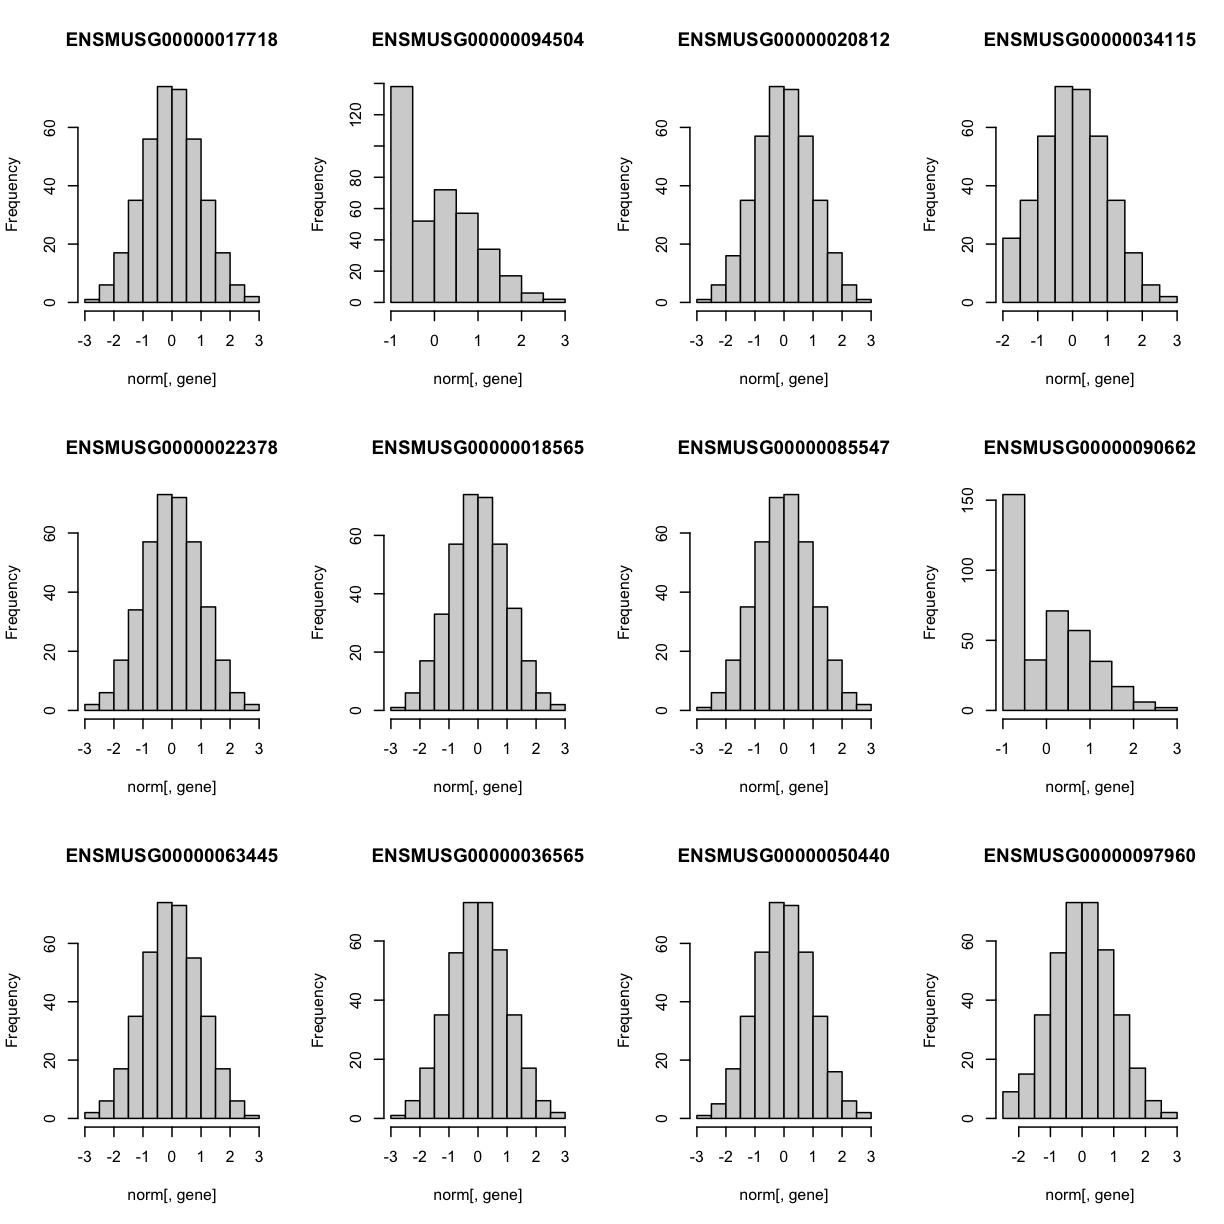
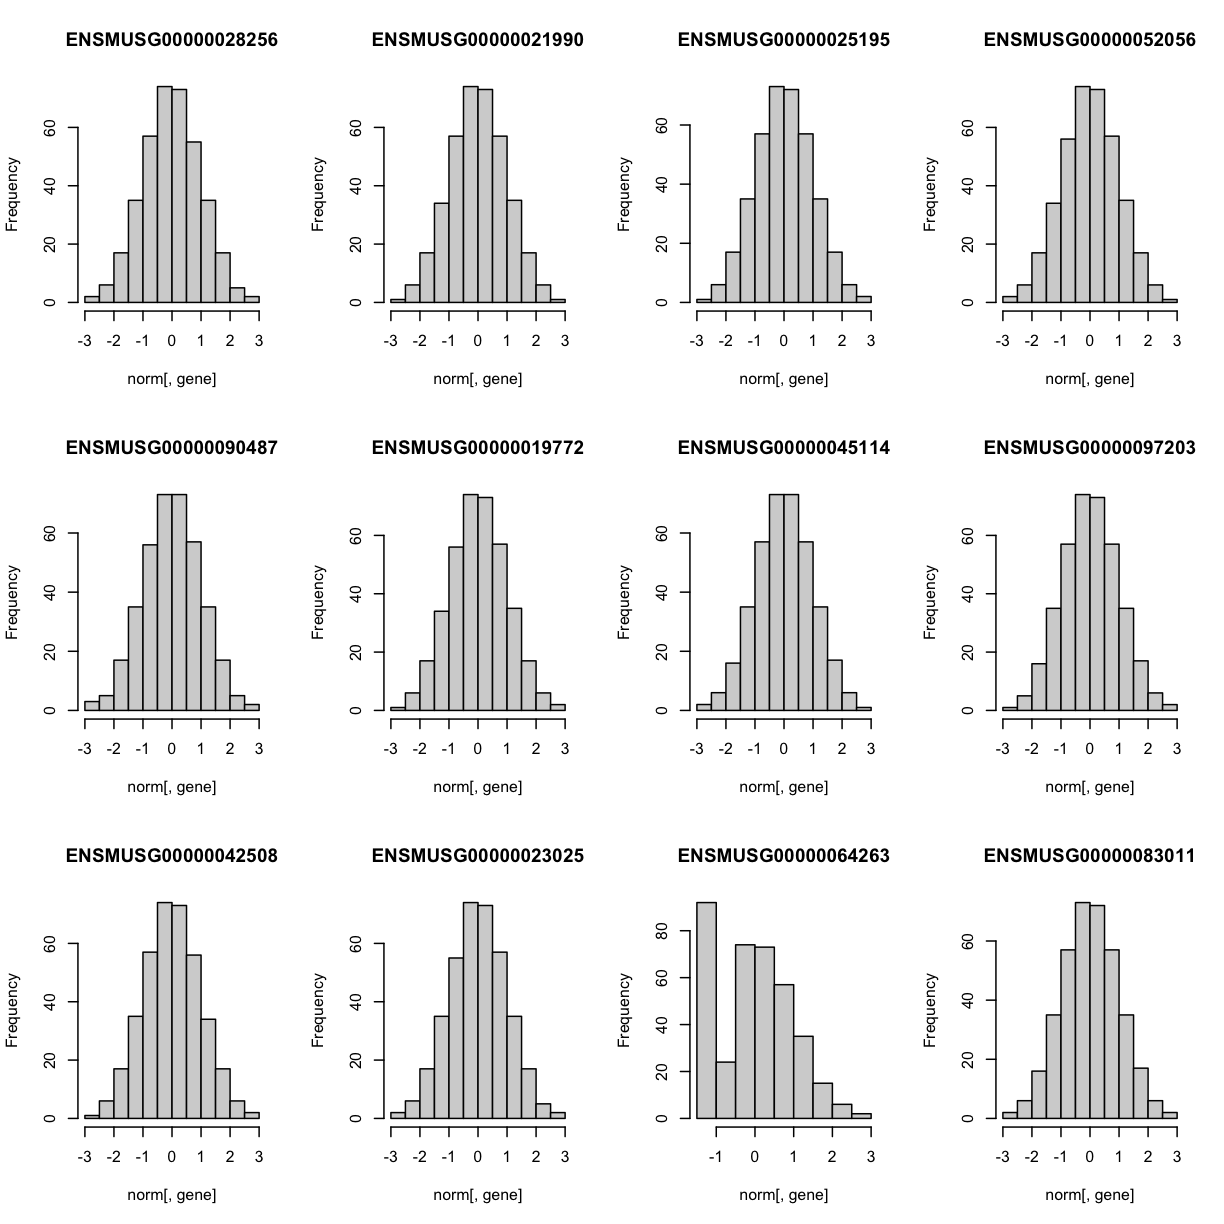
updating lesson 6 VII

diff --git a/_episodes/06-map-many-eqtls.md b/_episodes/06-map-many-eqtls.md
@@ -66,64 +66,65 @@ sams <- sample(length(genes), 50, replace = FALSE, prob = NULL)
 genes <- genes[sams]
 
 gene.info <- dataset.islet.rnaseq$annots[genes,]
+rownames = NULL
 kable(gene.info)
 ~~~
 {: .language-r}
 
 
 
-|                   |gene_id            |symbol        |chr |      start|        end| strand|     middle|nearest.marker.id |biotype                |module         |hotspot |
-|:------------------|:------------------|:-------------|:---|----------:|----------:|------:|----------:|:-----------------|:----------------------|:--------------|:-------|
-|ENSMUSG00000017718 |ENSMUSG00000017718 |Afmid         |11  | 117.825924| 117.839908|      1| 117.832916|11_117898270      |protein_coding         |grey           |NA      |
-|ENSMUSG00000094504 |ENSMUSG00000094504 |Gm5294        |5   | 138.820080| 138.821619|      1| 138.820850|5_138814741       |protein_coding         |blue           |NA      |
-|ENSMUSG00000020812 |ENSMUSG00000020812 |1810032O08Rik |11  | 116.671660| 116.675799|      1| 116.673730|11_116674802      |protein_coding         |darkred        |NA      |
-|ENSMUSG00000034115 |ENSMUSG00000034115 |Scn11a        |9   | 119.753763| 119.825456|     -1| 119.789610|9_119738766       |protein_coding         |yellowgreen    |chr5    |
-|ENSMUSG00000022378 |ENSMUSG00000022378 |Fam49b        |15  |  63.929097|  64.060448|     -1|  63.994772|15_63966062       |protein_coding         |turquoise      |NA      |
-|ENSMUSG00000018565 |ENSMUSG00000018565 |Elp5          |11  |  69.968222|  69.982517|     -1|  69.975370|11_69978753       |protein_coding         |skyblue3       |NA      |
-|ENSMUSG00000085547 |ENSMUSG00000085547 |Gm13767       |2   |  90.358178|  90.383163|     -1|  90.370670|2_90185356        |pseudogene             |grey           |NA      |
-|ENSMUSG00000090662 |ENSMUSG00000090662 |Vmn2r45       |7   |   8.470525|   8.489075|     -1|   8.479800|7_8660580         |protein_coding         |grey           |NA      |
-|ENSMUSG00000063445 |ENSMUSG00000063445 |Nmral1        |16  |   4.710059|   4.719356|     -1|   4.714708|16_4699269        |protein_coding         |darkmagenta    |NA      |
-|ENSMUSG00000036565 |ENSMUSG00000036565 |Ttyh3         |5   | 140.620586| 140.649031|     -1| 140.634808|5_140637088       |protein_coding         |black          |NA      |
-|ENSMUSG00000050440 |ENSMUSG00000050440 |Hamp          |7   |  30.942371|  30.944017|     -1|  30.943194|7_30929661        |protein_coding         |skyblue3       |NA      |
-|ENSMUSG00000097960 |ENSMUSG00000097960 |A330074K22Rik |8   | 120.204434| 120.228230|     -1| 120.216332|8_120218062       |lincRNA                |grey           |NA      |
-|ENSMUSG00000037640 |ENSMUSG00000037640 |Zfp60         |7   |  27.731389|  27.753702|      1|  27.742546|7_27721493        |protein_coding         |green          |NA      |
-|ENSMUSG00000034616 |ENSMUSG00000034616 |Ssh3          |19  |   4.261668|   4.269172|     -1|   4.265420|19_4267368        |protein_coding         |purple         |chr13   |
-|ENSMUSG00000027374 |ENSMUSG00000027374 |Mrps5         |2   | 127.587222| 127.606829|      1| 127.597026|2_127565057       |protein_coding         |turquoise      |NA      |
-|ENSMUSG00000033707 |ENSMUSG00000033707 |Lrrc24        |15  |  76.715276|  76.722173|     -1|  76.718724|15_76785967       |protein_coding         |blue           |NA      |
-|ENSMUSG00000090235 |ENSMUSG00000090235 |Gm16244       |19  |  42.779032|  42.781454|      1|  42.780243|19_42721127       |processed_transcript   |royalblue      |NA      |
-|ENSMUSG00000066389 |ENSMUSG00000066389 |Rpl31-ps1     |12  |  91.890896|  91.891273|     -1|  91.891084|12_91918075       |pseudogene             |blue           |NA      |
-|ENSMUSG00000021534 |ENSMUSG00000021534 |1700001L19Rik |13  |  68.597439|  68.614231|      1|  68.605835|13_68633645       |protein_coding         |brown          |NA      |
-|ENSMUSG00000039428 |ENSMUSG00000039428 |Tmem135       |7   |  89.139723|  89.404222|     -1|  89.271972|7_89218481        |protein_coding         |grey           |NA      |
-|ENSMUSG00000001627 |ENSMUSG00000001627 |Ifrd1         |12  |  40.201567|  40.248504|     -1|  40.225036|12_40294989       |protein_coding         |darkolivegreen |NA      |
-|ENSMUSG00000047733 |ENSMUSG00000047733 |BC048609      |19  |   6.080033|   6.080788|      1|   6.080410|19_6205523        |protein_coding         |grey           |NA      |
-|ENSMUSG00000005378 |ENSMUSG00000005378 |Wbscr22       |5   | 135.052957| 135.064959|     -1| 135.058958|5_135055862       |protein_coding         |lightcyan      |NA      |
-|ENSMUSG00000048484 |ENSMUSG00000048484 |Gm7461        |8   |   4.677539|   4.678365|     -1|   4.677952|8_4769503         |protein_coding         |grey           |NA      |
-|ENSMUSG00000092212 |ENSMUSG00000092212 |Slc22a13b-ps  |9   | 119.220488| 119.231692|     -1| 119.226090|9_119227695       |polymorphic_pseudogene |grey           |NA      |
-|ENSMUSG00000032350 |ENSMUSG00000032350 |Gclc          |9   |  77.754535|  77.794485|      1|  77.774510|9_77797741        |protein_coding         |darkgreen      |NA      |
-|ENSMUSG00000024622 |ENSMUSG00000024622 |Hmgxb3        |18  |  61.131279|  61.177050|     -1|  61.154164|18_61173824       |protein_coding         |purple         |NA      |
-|ENSMUSG00000029878 |ENSMUSG00000029878 |Dbpht2        |12  |  74.297474|  74.300468|      1|  74.298971|12_74328374       |protein_coding         |greenyellow    |NA      |
-|ENSMUSG00000022538 |ENSMUSG00000022538 |Lsg1          |16  |  30.560494|  30.587592|     -1|  30.574043|16_30485024       |protein_coding         |turquoise      |NA      |
-|ENSMUSG00000029482 |ENSMUSG00000029482 |Aacs          |5   | 125.475814| 125.517412|      1| 125.496613|5_125525600       |protein_coding         |grey60         |NA      |
-|ENSMUSG00000031134 |ENSMUSG00000031134 |Rbmx          |X   |  57.383530|  57.393036|     -1|  57.388283|X_57389329        |protein_coding         |white          |NA      |
-|ENSMUSG00000022215 |ENSMUSG00000022215 |Fitm1         |14  |  55.575617|  55.576952|      1|  55.576284|14_55574243       |protein_coding         |grey           |NA      |
-|ENSMUSG00000011751 |ENSMUSG00000011751 |Sptbn4        |7   |  27.356383|  27.447686|     -1|  27.402034|7_27350405        |protein_coding         |black          |NA      |
-|ENSMUSG00000018707 |ENSMUSG00000018707 |Dync1h1       |12  | 110.601452| 110.666945|      1| 110.634198|12_110615192      |protein_coding         |saddlebrown    |NA      |
-|ENSMUSG00000063623 |ENSMUSG00000063623 |C230062I16Rik |7   |  29.953621|  29.955992|      1|  29.954806|7_29934934        |protein_coding         |grey           |NA      |
-|ENSMUSG00000083727 |ENSMUSG00000083727 |Gm11887       |4   |  23.440018|  23.440247|      1|  23.440132|4_23472767        |pseudogene             |grey           |NA      |
-|ENSMUSG00000028294 |ENSMUSG00000028294 |1700003M02Rik |4   |  34.688559|  34.730206|     -1|  34.709382|4_34715713        |protein_coding         |grey           |NA      |
-|ENSMUSG00000041028 |ENSMUSG00000041028 |Ghitm         |14  |  37.120444|  37.135322|     -1|  37.127883|14_37137008       |protein_coding         |salmon         |NA      |
-|ENSMUSG00000083055 |ENSMUSG00000083055 |Gm14140       |2   | 150.110582| 150.111576|     -1| 150.111079|2_150133825       |pseudogene             |grey           |NA      |
-|ENSMUSG00000068245 |ENSMUSG00000068245 |Phf11d        |14  |  59.347407|  59.365470|     -1|  59.356438|14_59350137       |protein_coding         |magenta        |chr7    |
-|ENSMUSG00000021208 |ENSMUSG00000021208 |Ifi27l2b      |12  | 103.450898| 103.457223|     -1| 103.454060|12_103467293      |protein_coding         |grey           |NA      |
-|ENSMUSG00000078480 |ENSMUSG00000078480 |Mrpl48-ps     |4   |  88.599175|  88.599810|     -1|  88.599492|4_88594292        |pseudogene             |grey           |NA      |
-|ENSMUSG00000024247 |ENSMUSG00000024247 |Pkdcc         |17  |  83.215292|  83.225070|      1|  83.220181|17_83222737       |protein_coding         |grey60         |NA      |
-|ENSMUSG00000029431 |ENSMUSG00000029431 |B3gnt4        |5   | 123.510460| 123.511882|      1| 123.511171|5_123394206       |protein_coding         |grey           |NA      |
-|ENSMUSG00000096006 |ENSMUSG00000096006 |Gm21596       |2   | 113.919247| 113.920562|     -1| 113.919904|2_113926451       |pseudogene             |grey           |NA      |
-|ENSMUSG00000046747 |ENSMUSG00000046747 |Gm9812        |12  |  55.820611|  55.821580|      1|  55.821096|12_55896608       |pseudogene             |grey           |NA      |
-|ENSMUSG00000095350 |ENSMUSG00000095350 |Gm23284       |8   | 123.620241| 123.620359|     -1| 123.620300|8_123594496       |rRNA                   |mediumpurple3  |NA      |
-|ENSMUSG00000035042 |ENSMUSG00000035042 |Ccl5          |11  |  83.525778|  83.530518|     -1|  83.528148|11_83554638       |protein_coding         |magenta        |chr7    |
-|ENSMUSG00000097589 |ENSMUSG00000097589 |Dleu2         |14  |  61.602839|  61.682373|     -1|  61.642606|14_61606644       |processed_transcript   |darkgreen      |NA      |
-|ENSMUSG00000094958 |ENSMUSG00000094958 |3110021N24Rik |4   | 108.719649| 108.781904|      1| 108.750776|4_108766689       |protein_coding         |grey           |NA      |
+|                   |gene_id            |symbol        |chr |      start|        end| strand|     middle|nearest.marker.id |biotype              |module        |hotspot |
+|:------------------|:------------------|:-------------|:---|----------:|----------:|------:|----------:|:-----------------|:--------------------|:-------------|:-------|
+|ENSMUSG00000028256 |ENSMUSG00000028256 |Odf2l         |3   | 145.118589| 145.153915|      1| 145.136252|3_145121769       |protein_coding       |green         |NA      |
+|ENSMUSG00000021990 |ENSMUSG00000021990 |Spata13       |14  |  60.634001|  60.764556|      1|  60.699278|14_60705905       |protein_coding       |red           |NA      |
+|ENSMUSG00000025195 |ENSMUSG00000025195 |Dnmbp         |19  |  43.847967|  43.912392|     -1|  43.880180|19_43877848       |protein_coding       |darkturquoise |NA      |
+|ENSMUSG00000052056 |ENSMUSG00000052056 |Zfp217        |2   | 170.108643| 170.148103|     -1| 170.128373|2_170118266       |protein_coding       |magenta       |NA      |
+|ENSMUSG00000090487 |ENSMUSG00000090487 |Gm2888        |14  |   3.030002|   3.038762|      1|   3.034382|14_3040840        |protein_coding       |plum1         |NA      |
+|ENSMUSG00000019772 |ENSMUSG00000019772 |Vip           |10  |   5.639218|   5.647614|      1|   5.643416|10_5637668        |protein_coding       |paleturquoise |NA      |
+|ENSMUSG00000045114 |ENSMUSG00000045114 |Prrt2         |7   | 127.016771| 127.021211|     -1| 127.018991|7_127066421       |protein_coding       |grey          |NA      |
+|ENSMUSG00000097203 |ENSMUSG00000097203 |4732419C18Rik |8   | 123.744631| 123.754228|     -1| 123.749430|8_123694905       |lincRNA              |greenyellow   |NA      |
+|ENSMUSG00000042508 |ENSMUSG00000042508 |Dmtf1         |5   |   9.118801|   9.161776|     -1|   9.140288|5_9151068         |protein_coding       |brown         |NA      |
+|ENSMUSG00000023025 |ENSMUSG00000023025 |Larp4         |15  |  99.970074| 100.016351|      1|  99.993212|15_100012596      |protein_coding       |darkgreen     |NA      |
+|ENSMUSG00000064263 |ENSMUSG00000064263 |Gm1631        |2   |  71.719417|  71.730966|      1|  71.725192|2_71683802        |protein_coding       |grey          |NA      |
+|ENSMUSG00000083011 |ENSMUSG00000083011 |Gm12816       |4   | 112.955075| 112.956286|     -1| 112.955680|4_112905586       |pseudogene           |grey          |NA      |
+|ENSMUSG00000083339 |ENSMUSG00000083339 |Gm11693       |11  | 113.678530| 113.679331|      1| 113.678930|11_113679730      |pseudogene           |grey          |NA      |
+|ENSMUSG00000081929 |ENSMUSG00000081929 |Rps11-ps2     |11  | 116.382750| 116.383205|      1| 116.382978|11_116377446      |pseudogene           |grey          |NA      |
+|ENSMUSG00000090555 |ENSMUSG00000090555 |Gm8893        |12  | 103.817856| 103.822243|     -1| 103.820050|12_103826618      |pseudogene           |grey          |NA      |
+|ENSMUSG00000006019 |ENSMUSG00000006019 |Dhx34         |7   |  16.197147|  16.222037|     -1|  16.209592|7_16210236        |protein_coding       |black         |NA      |
+|ENSMUSG00000078601 |ENSMUSG00000078601 |Gm12525       |3   | 108.361551| 108.362256|      1| 108.361904|3_108353179       |antisense            |grey          |NA      |
+|ENSMUSG00000078952 |ENSMUSG00000078952 |Gm2373        |13  |  97.434970|  97.497007|      1|  97.465988|13_97466637       |lincRNA              |grey          |NA      |
+|ENSMUSG00000018845 |ENSMUSG00000018845 |Unc45b        |11  |  82.910550|  82.943403|      1|  82.926976|11_82833747       |protein_coding       |grey          |NA      |
+|ENSMUSG00000028137 |ENSMUSG00000028137 |Celf3         |3   |  94.478831|  94.492193|      1|  94.485512|3_94429795        |protein_coding       |black         |NA      |
+|ENSMUSG00000031270 |ENSMUSG00000031270 |4930513O06Rik |X   | 139.086243| 139.093405|      1| 139.089824|X_139084893       |protein_coding       |brown         |NA      |
+|ENSMUSG00000091423 |ENSMUSG00000091423 |Gm17509       |13  | 117.218701| 117.221075|     -1| 117.219888|13_117256471      |protein_coding       |grey          |NA      |
+|ENSMUSG00000070304 |ENSMUSG00000070304 |Scn2b         |9   |  45.117876|  45.130070|      1|  45.123973|9_45128094        |protein_coding       |grey          |NA      |
+|ENSMUSG00000019820 |ENSMUSG00000019820 |Utrn          |10  |  12.382188|  12.861735|     -1|  12.621962|10_12635805       |protein_coding       |saddlebrown   |NA      |
+|ENSMUSG00000062753 |ENSMUSG00000062753 |AI413582      |17  |  27.563575|  27.565749|     -1|  27.564662|17_27566804       |protein_coding       |red           |NA      |
+|ENSMUSG00000057672 |ENSMUSG00000057672 |Pkn1          |8   |  83.669762|  83.699179|     -1|  83.684470|8_83587702        |protein_coding       |black         |NA      |
+|ENSMUSG00000095601 |ENSMUSG00000095601 |Gm21085       |X   |  37.380028|  37.384493|      1|  37.382260|X_37366530        |protein_coding       |grey          |NA      |
+|ENSMUSG00000086794 |ENSMUSG00000086794 |Gm11642       |11  | 103.723950| 103.724532|      1| 103.724241|11_103724029      |processed_transcript |grey          |NA      |
+|ENSMUSG00000060467 |ENSMUSG00000060467 |Gm10080       |9   |  44.374595|  44.375209|     -1|  44.374902|9_44362716        |pseudogene           |grey          |NA      |
+|ENSMUSG00000022174 |ENSMUSG00000022174 |Dad1          |14  |  54.235479|  54.254104|     -1|  54.244792|14_54244226       |protein_coding       |blue          |NA      |
+|ENSMUSG00000020170 |ENSMUSG00000020170 |Frs2          |10  | 117.070129| 117.148474|     -1| 117.109302|10_117122171      |protein_coding       |saddlebrown   |NA      |
+|ENSMUSG00000029512 |ENSMUSG00000029512 |Ulk1          |5   | 110.784488| 110.810097|     -1| 110.797292|5_110843597       |protein_coding       |yellow        |NA      |
+|ENSMUSG00000000296 |ENSMUSG00000000296 |Tpd52l1       |10  |  31.332380|  31.445921|     -1|  31.389150|10_31301766       |protein_coding       |brown         |NA      |
+|ENSMUSG00000039233 |ENSMUSG00000039233 |Tbce          |13  |  13.997949|  14.039638|     -1|  14.018794|13_14120641       |protein_coding       |grey          |NA      |
+|ENSMUSG00000027361 |ENSMUSG00000027361 |Gabpb1        |2   | 126.627442| 126.676337|     -1| 126.651890|2_126678042       |protein_coding       |turquoise     |NA      |
+|ENSMUSG00000029780 |ENSMUSG00000029780 |Nt5c3         |6   |  56.882400|  56.923932|     -1|  56.903166|6_56826266        |protein_coding       |magenta       |NA      |
+|ENSMUSG00000030324 |ENSMUSG00000030324 |Rho           |6   | 115.931927| 115.938829|      1| 115.935378|6_116075585       |protein_coding       |darkred       |NA      |
+|ENSMUSG00000052423 |ENSMUSG00000052423 |B4galt3       |1   | 171.270328| 171.276896|      1| 171.273612|1_171295194       |protein_coding       |black         |NA      |
+|ENSMUSG00000096370 |ENSMUSG00000096370 |Gm21992       |19  |   4.742913|   4.811612|     -1|   4.777262|19_4628265        |protein_coding       |blue          |NA      |
+|ENSMUSG00000000056 |ENSMUSG00000000056 |Narf          |11  | 121.237253| 121.255856|      1| 121.246554|11_121200487      |protein_coding       |brown         |NA      |
+|ENSMUSG00000046167 |ENSMUSG00000046167 |Gldn          |9   |  54.286486|  54.341786|      1|  54.314136|9_54291137        |protein_coding       |grey          |NA      |
+|ENSMUSG00000062044 |ENSMUSG00000062044 |Lmtk3         |7   |  45.783738|  45.804144|      1|  45.793941|7_45720922        |protein_coding       |yellow        |NA      |
+|ENSMUSG00000046719 |ENSMUSG00000046719 |Nxph3         |11  |  95.509845|  95.514570|     -1|  95.512208|11_95489858       |protein_coding       |red           |NA      |
+|ENSMUSG00000079639 |ENSMUSG00000079639 |Rhox4a        |X   |  37.265338|  37.270136|      1|  37.267737|X_37171167        |protein_coding       |grey          |NA      |
+|ENSMUSG00000052392 |ENSMUSG00000052392 |Acot4         |12  |  84.038379|  84.044723|      1|  84.041551|12_84015575       |protein_coding       |grey          |chr2    |
+|ENSMUSG00000083483 |ENSMUSG00000083483 |Gm14044       |2   | 130.384883| 130.385329|     -1| 130.385106|2_130349094       |pseudogene           |grey          |NA      |
+|ENSMUSG00000078932 |ENSMUSG00000078932 |CN725425      |15  |  91.231578|  91.260885|      1|  91.246232|15_91251706       |protein_coding       |grey          |NA      |
+|ENSMUSG00000074796 |ENSMUSG00000074796 |Slc4a11       |2   | 130.684113| 130.697519|     -1| 130.690816|2_130559955       |protein_coding       |red           |NA      |
+|ENSMUSG00000084221 |ENSMUSG00000084221 |Hmgb1-ps4     |19  |   6.592602|   6.593236|     -1|   6.592919|19_6545203        |pseudogene           |grey          |NA      |
+|ENSMUSG00000028270 |ENSMUSG00000028270 |Gbp2          |3   | 142.620602| 142.638008|      1| 142.629305|3_142705784       |protein_coding       |magenta       |NA      |
 
 ### Expression Data
 
@@ -193,16 +194,16 @@ tmp
 # Groups:   expression [50]
    expression         data     model  term     estimate std.e…¹ stati…²  p.value
    <chr>              <list>   <list> <chr>       <dbl>   <dbl>   <dbl>    <dbl>
- 1 ENSMUSG00000017718 <tibble> <lm>   (Interc…  1.14    0.611     1.86  6.32e- 2
- 2 ENSMUSG00000017718 <tibble> <lm>   sexM     -0.347   0.0995   -3.48  5.58e- 4
- 3 ENSMUSG00000017718 <tibble> <lm>   DOwave   -0.0173  0.0448   -0.386 7.00e- 1
- 4 ENSMUSG00000017718 <tibble> <lm>   diet_da… -0.00714 0.00467  -1.53  1.27e- 1
- 5 ENSMUSG00000094504 <tibble> <lm>   (Interc…  0.208   0.457     0.455 6.50e- 1
- 6 ENSMUSG00000094504 <tibble> <lm>   sexM      0.139   0.0744    1.86  6.34e- 2
- 7 ENSMUSG00000094504 <tibble> <lm>   DOwave    0.454   0.0335   13.6   2.12e-34
- 8 ENSMUSG00000094504 <tibble> <lm>   diet_da… -0.0108  0.00349  -3.09  2.15e- 3
- 9 ENSMUSG00000020812 <tibble> <lm>   (Interc…  1.23    0.565     2.17  3.03e- 2
-10 ENSMUSG00000020812 <tibble> <lm>   sexM     -0.472   0.0920   -5.14  4.53e- 7
+ 1 ENSMUSG00000028256 <tibble> <lm>   (Interc…  0.459   0.491     0.935 3.51e- 1
+ 2 ENSMUSG00000028256 <tibble> <lm>   sexM     -0.0991  0.0801   -1.24  2.17e- 1
+ 3 ENSMUSG00000028256 <tibble> <lm>   DOwave   -0.542   0.0360  -15.0   2.47e-40
+ 4 ENSMUSG00000028256 <tibble> <lm>   diet_da…  0.00740 0.00375   1.97  4.95e- 2
+ 5 ENSMUSG00000021990 <tibble> <lm>   (Interc…  0.818   0.607     1.35  1.79e- 1
+ 6 ENSMUSG00000021990 <tibble> <lm>   sexM     -0.302   0.0989   -3.05  2.43e- 3
+ 7 ENSMUSG00000021990 <tibble> <lm>   DOwave    0.0281  0.0445    0.631 5.28e- 1
+ 8 ENSMUSG00000021990 <tibble> <lm>   diet_da… -0.00574 0.00464  -1.24  2.17e- 1
+ 9 ENSMUSG00000025195 <tibble> <lm>   (Interc… -1.80    0.551    -3.27  1.19e- 3
+10 ENSMUSG00000025195 <tibble> <lm>   sexM      0.188   0.0898    2.09  3.73e- 2
 # … with 190 more rows, and abbreviated variable names ¹std.error, ²statistic
 ~~~
 {: .output}
